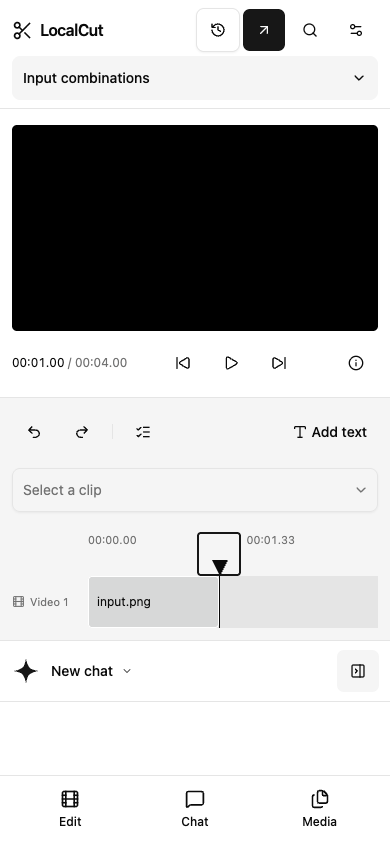
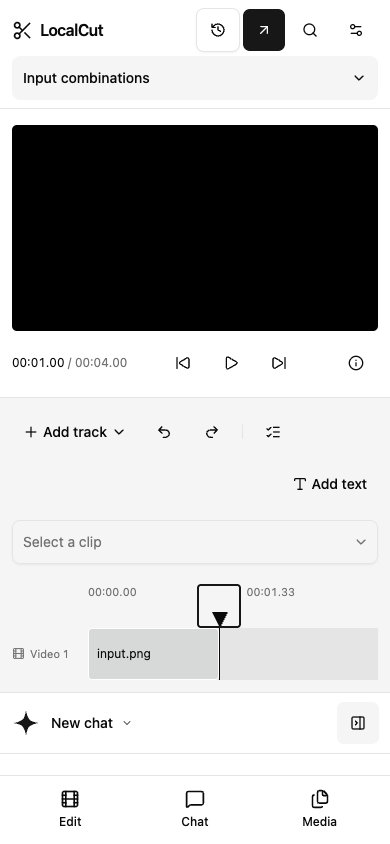
Verify playhead seeking alongside new track controls

diff --git a/tests/browser/workspace-timeline.spec.ts b/tests/browser/workspace-timeline.spec.ts
@@ -181,7 +181,7 @@ for (const base of ['/', '/LocalCut/']) {
     await expect(lanes).toHaveCount(3);
     await expect(
       page.getByRole('slider', { name: 'Playhead position' }),
-    ).toHaveValue('0');
+    ).toHaveAttribute('aria-valuenow', '0');
     expect((await p()).tracks.map((track) => track.clips.length)).toEqual([
       1, 0, 0,
     ]);
